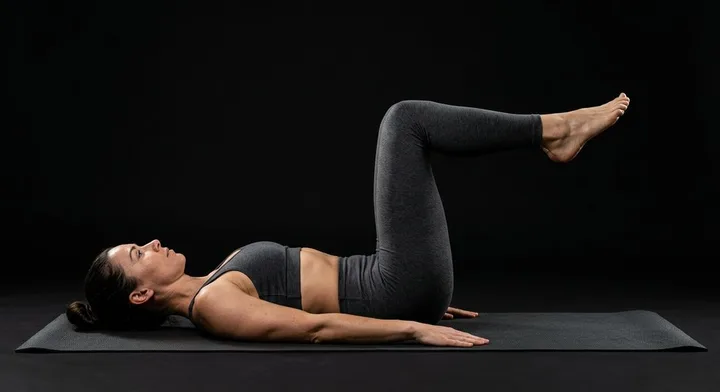
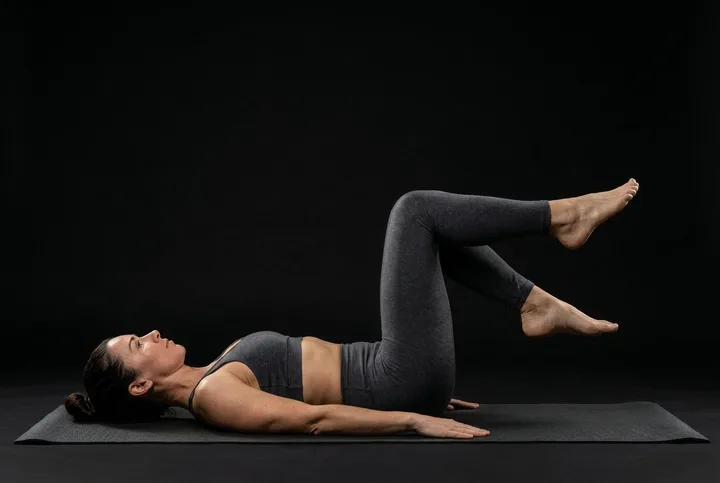
Leg extension: use both-legs tabletop start frame
Claude-Session: https://claude.ai/code/session_017924XBJbRZB1NdLFDXCxtq

Changed region(s): [[0.0, 0.2449, 1.0, 0.9184], [0.6417, 0.4898, 0.8556, 0.7041], [0.6111, 0.7041, 0.6417, 0.7347]]

diff --git a/sw.js b/sw.js
@@ -1,5 +1,5 @@
 // Офлайн-режим: оболочка и картинки кэшируются; страница и скрипты обновляются из сети, когда она есть.
-var V='back-v2';
+var V='back-v3';
 var CORE=["./", "index.html", "anim.js", "manifest.webmanifest", "icon-192.png", "icon-512.png", "apple-touch-icon.png", "favicon-32.png", "icon.svg", "gif/ph-1-1.webp", "gif/ph-30-1.webp", "gif/ph-1-2.webp", "gif/ph-10-1.webp", "gif/ph-10-2.webp", "gif/ph-12-1.webp", "gif/ph-12-2.webp", "gif/ph-14-1.webp", "gif/ph-14-2.webp", "gif/ph-16-1.webp", "gif/ph-16-2.webp", "gif/ph-17-1.webp", "gif/ph-17-2.webp", "gif/ph-18-1.webp", "gif/ph-18-2.webp", "gif/ph-19-1.webp", "gif/ph-19-2.webp", "gif/ph-2-1.webp", "gif/ph-2-2.webp", "gif/ph-20-1.webp", "gif/ph-21-1.webp", "gif/ph-21-2.webp", "gif/ph-23-1.webp", "gif/ph-23-2.webp", "gif/ph-24-1.webp", "gif/ph-24-2.webp", "gif/ph-4-1.webp", "gif/ph-4-2.webp", "gif/ph-6-1.webp", "gif/ph-6-2.webp", "gif/ph-8-1.webp", "gif/ph-8-2.webp"];
 self.addEventListener('install',function(e){
   e.waitUntil(caches.open(V).then(function(c){return c.addAll(CORE);}).then(function(){return self.skipWaiting();}));
